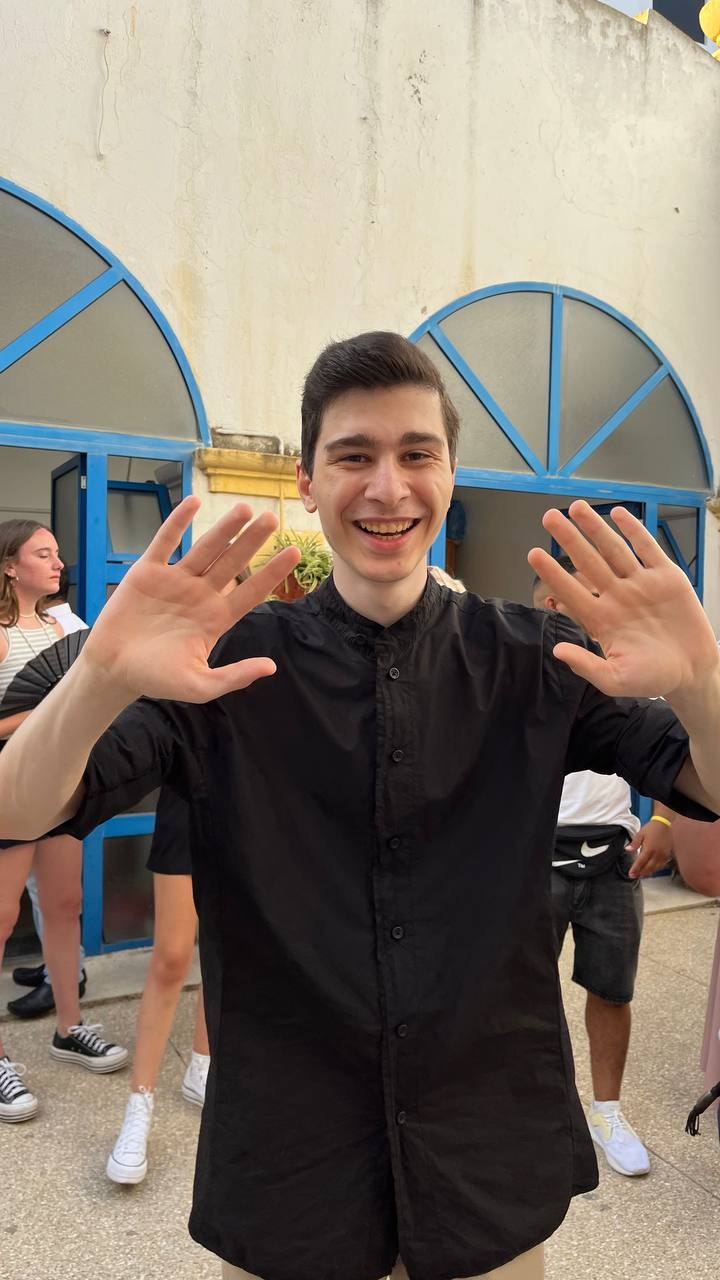
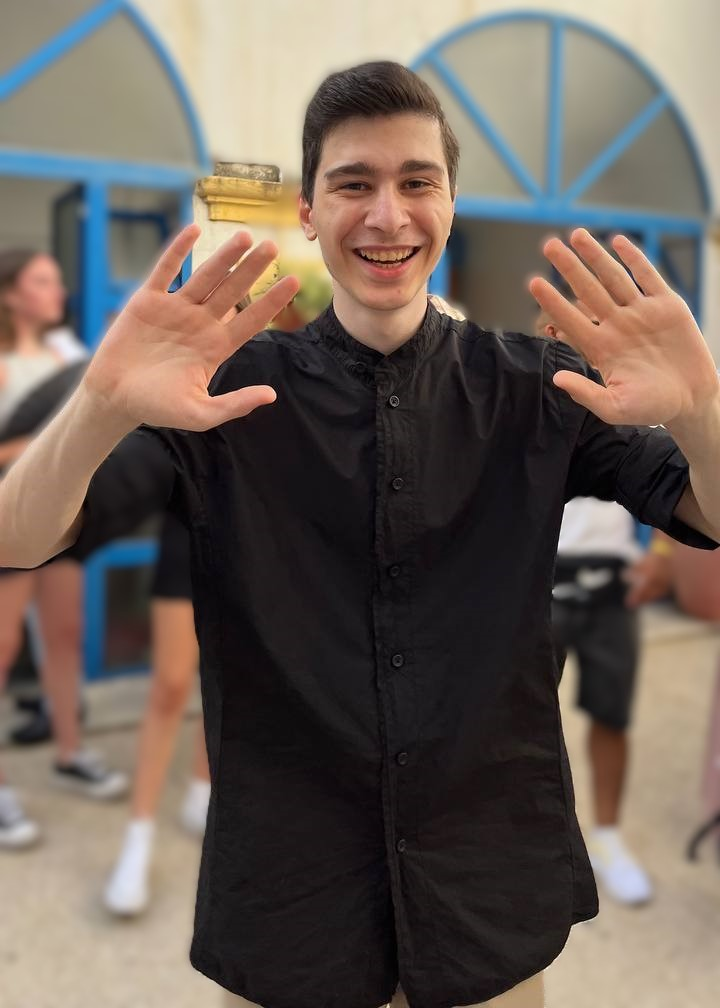
refact main

diff --git a/src/app/app.component.html b/src/app/app.component.html
@@ -4,22 +4,29 @@
 <section class="section__main">
     <h2 class="main__title">Исмаил Хаджиев</h2>
     <div class="main">
-        <div>
-            <img src="assets/images/1.jpg" class="main__collage" alt="Индивидуальный урок арабского языка онлайн с репетитором из МГИМО"/>
+        <div class="main__container">
+            <div>
+                <img src="assets/images/1.jpg" class="main__collage" alt="Индивидуальный урок арабского языка онлайн с репетитором из МГИМО"/>
+            </div>
+            <div class="main__desc">
+                <pre class="main__text-desc tab">Здравствуйте! Я студент МГИМО, имеющий глубокие и всесторонние знания арабского языка. Мой опыт включает в себя успешное изучение языка и культуры, а также практику общения с носителями языка. Я получил международный сертификат, подтверждающий уровень знаний B2+, который был выдан в 2023 году.
+                </pre>
+                <pre class="main__text-desc">Я готов помочь Вам овладеть арабским языком на высоком уровне, развить разговорные навыки, грамматику и лексику, а также подготовиться к экзаменам и тестам.
+                </pre>
+            </div>
         </div>
-        <div class="main__desc">
-            <p class="main__text-desc">Здравствуйте! Я студент МГИМО, имеющий глубокие и всесторонние знания арабского языка. Мой опыт включает в себя успешное изучение языка и культуры, а также практику общения с носителями языка. Я получил международный сертификат, подтверждающий уровень знаний B2+, который был выдан в 2023 году.
-            </p>
-            <p class="main__text-desc">Я готов помочь Вам овладеть арабским языком на высоком уровне, развить разговорные навыки, грамматику и лексику, а также подготовиться к экзаменам и тестам.
-            </p>
-            <p class="main__text-desc">Предлагаю индивидуальные онлайн занятия длительностью 1 час с предоплатой. Занятия проводятся по гибкому графику, адаптированному к Вашим потребностям.
-            </p>
-        </div>
-        <div class="main__desc">
-            <p class="main__text-desc">Напишите мне, чтобы выбрать подходящее время, и я с радостью проведу пробное занятие. Если у Вас есть вопросы о методах обучения, материалах или ценах, не стесняйтесь спрашивать, я всегда готов ответить на них!
-            </p>
-            <p class="main__text-desc">Давайте вместе сделаем шаг к уверенному владению арабским языком!
-            </p>
+        <pre class="main__text-desc tab">Предлагаю индивидуальные онлайн занятия длительностью 1 час с предоплатой. Занятия проводятся по гибкому графику, адаптированному к Вашим потребностям.
+        </pre>
+        <div class="main__container">
+            <div class="main__desc">
+                <pre class="main__text-desc tab">Напишите мне, чтобы выбрать подходящее время, и я с радостью проведу пробное занятие. Если у Вас есть вопросы о методах обучения, материалах или ценах, не стесняйтесь спрашивать, я всегда готов ответить на них!
+                </pre>
+                <pre class="main__text-desc">Давайте вместе сделаем шаг к уверенному владению арабским языком!
+                </pre>
+            </div>
+            <div class="revert">
+                <img src="assets/images/2.jpg" class="main__collage" alt="Индивидуальный урок арабского языка онлайн с репетитором из МГИМО"/>
+            </div>
         </div>
     </div>
 </section>

diff --git a/src/app/app.component.scss b/src/app/app.component.scss
@@ -21,6 +21,10 @@
     overflow: visible;
 }
 
+.tab {
+  tab-size: 8;
+}
+
 .main {
   display: flex;
   flex-wrap: wrap;
@@ -29,6 +33,13 @@
   max-width: 740px;
   margin: 0 auto;
   box-sizing: border-box;
+
+  &__container {
+    display: grid;
+    grid-template-columns: 1fr 1fr;
+    column-gap: 20px;
+    row-gap: 20px;
+  }
 
   &__end {
     display: flex;
@@ -57,7 +68,7 @@
     object-fit: cover;
     object-position: center;
     box-sizing: border-box;
-    margin: 20px 0;
+    margin: 0;
   }
 
   &__text {
@@ -117,5 +128,27 @@
     font-size: 32px;
     line-height: 36px;
     font-weight: 400;
+  }
+}
+
+@media screen and (max-width: 650px){
+  .main__text-desc {
+    font-size: 16px;
+    line-height: 24px;
+    font-weight: 300;
+  }
+
+  .main__title {
+    font-size: 32px;
+    line-height: 36px;
+    font-weight: 400;
+  }
+
+  .revert {
+    grid-area: 1;
+  }
+
+  .main__container {
+    grid-template-columns: 1fr;
   }
 }
